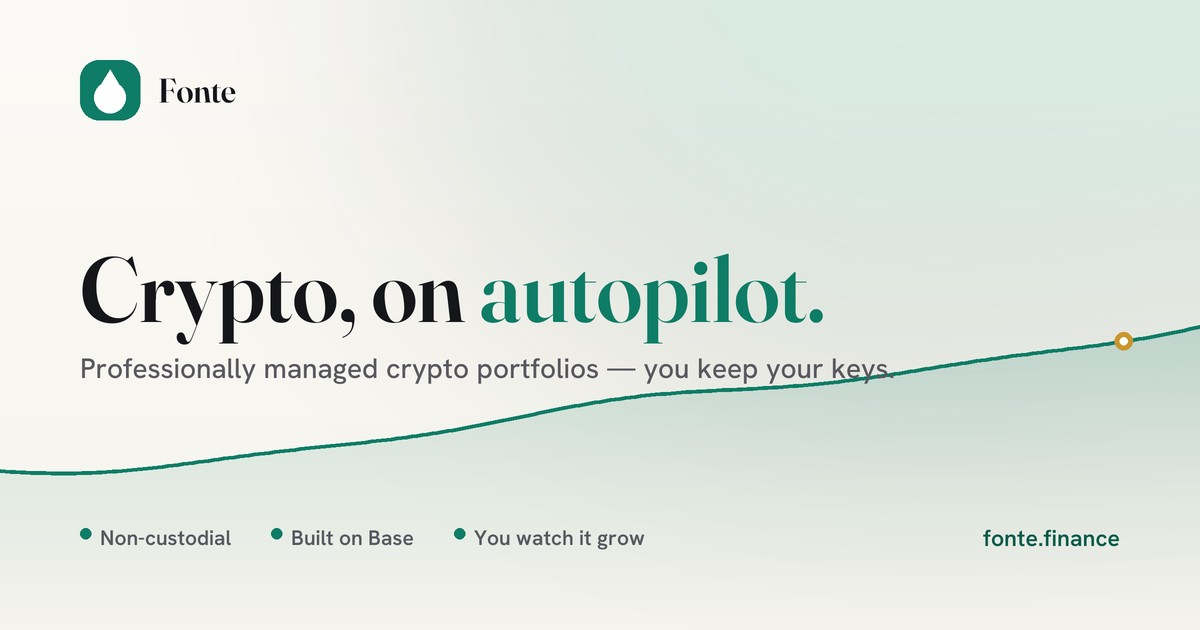
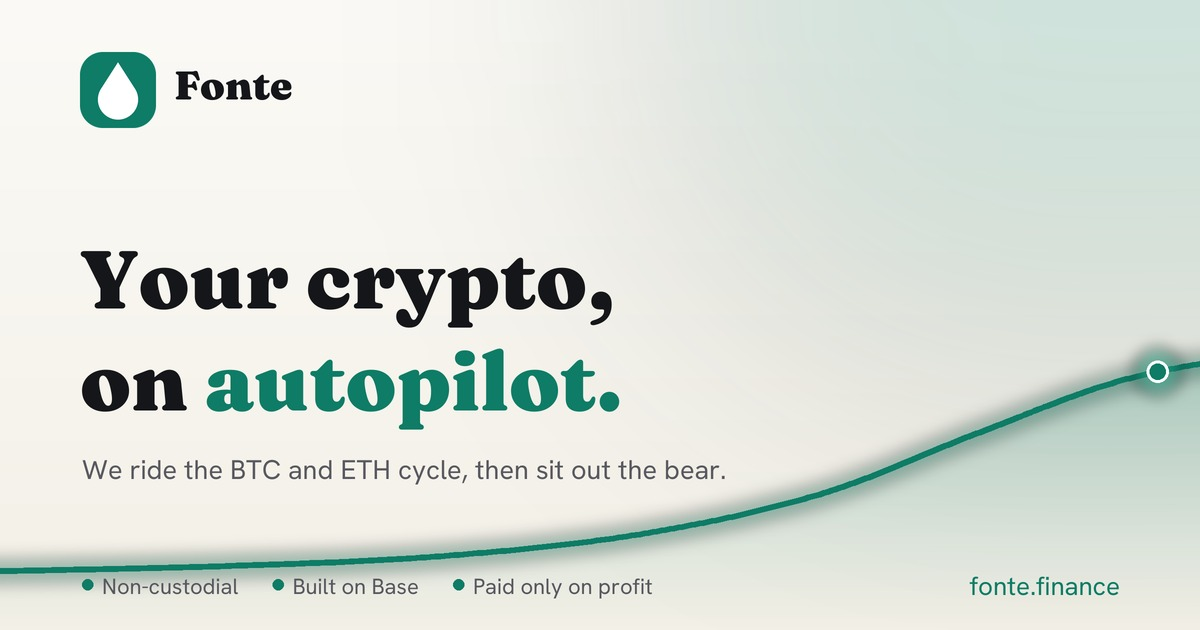
Redesign OG image (glowing equity curve, refined hierarchy); bump cache-buster

diff --git a/about.html b/about.html
@@ -14,7 +14,7 @@
 <meta property="og:title" content="About Fonte" />
 <meta property="og:description" content="Why Fonte exists: managing crypto should feel calm. Professionally managed, non-custodial portfolios for people who would rather live their life than watch charts." />
 <meta property="og:url" content="https://fonte.finance/about" />
-<meta property="og:image" content="https://fonte.finance/assets/og.png?v=20260615" />
+<meta property="og:image" content="https://fonte.finance/assets/og.png?v=20260622" />
 <meta property="og:image:type" content="image/png" />
 <meta property="og:image:width" content="1200" />
 <meta property="og:image:height" content="630" />
@@ -23,7 +23,7 @@
 <meta name="twitter:site" content="@fonte" />
 <meta name="twitter:title" content="About Fonte" />
 <meta name="twitter:description" content="Why Fonte exists: managing crypto should feel calm. Professionally managed, non-custodial portfolios for people who would rather live their life than watch charts." />
-<meta name="twitter:image" content="https://fonte.finance/assets/og.png?v=20260615" />
+<meta name="twitter:image" content="https://fonte.finance/assets/og.png?v=20260622" />
 <meta name="twitter:image:alt" content="Fonte. Crypto, on autopilot. Professionally managed, non-custodial crypto portfolios." />
 <!--/OG-->
 <link rel="stylesheet" href="styles.css" />

diff --git a/app.html b/app.html
@@ -14,7 +14,7 @@
 <meta property="og:title" content="Fonte · Your portfolio" />
 <meta property="og:description" content="Your Fonte dashboard: live positions, NAV, and allocation across a professionally managed, non-custodial crypto portfolio you control." />
 <meta property="og:url" content="https://fonte.finance/app" />
-<meta property="og:image" content="https://fonte.finance/assets/og.png?v=20260615" />
+<meta property="og:image" content="https://fonte.finance/assets/og.png?v=20260622" />
 <meta property="og:image:type" content="image/png" />
 <meta property="og:image:width" content="1200" />
 <meta property="og:image:height" content="630" />
@@ -23,7 +23,7 @@
 <meta name="twitter:site" content="@fonte" />
 <meta name="twitter:title" content="Fonte · Your portfolio" />
 <meta name="twitter:description" content="Your Fonte dashboard: live positions, NAV, and allocation across a professionally managed, non-custodial crypto portfolio you control." />
-<meta name="twitter:image" content="https://fonte.finance/assets/og.png?v=20260615" />
+<meta name="twitter:image" content="https://fonte.finance/assets/og.png?v=20260622" />
 <meta name="twitter:image:alt" content="Fonte. Crypto, on autopilot. Professionally managed, non-custodial crypto portfolios." />
 <!--/OG-->
 <link rel="stylesheet" href="styles.css" />

diff --git a/business.html b/business.html
@@ -14,7 +14,7 @@
 <meta property="og:title" content="Fonte for funds · White-label crypto portfolio management" />
 <meta property="og:description" content="A white-label, non-custodial, automated crypto portfolio platform for family offices and small funds. Your brand. Our engine." />
 <meta property="og:url" content="https://fonte.finance/business" />
-<meta property="og:image" content="https://fonte.finance/assets/og.png?v=20260615" />
+<meta property="og:image" content="https://fonte.finance/assets/og.png?v=20260622" />
 <meta property="og:image:type" content="image/png" />
 <meta property="og:image:width" content="1200" />
 <meta property="og:image:height" content="630" />
@@ -23,7 +23,7 @@
 <meta name="twitter:site" content="@fonte" />
 <meta name="twitter:title" content="Fonte for funds · White-label crypto portfolio management" />
 <meta name="twitter:description" content="A white-label, non-custodial, automated crypto portfolio platform for family offices and small funds. Your brand. Our engine." />
-<meta name="twitter:image" content="https://fonte.finance/assets/og.png?v=20260615" />
+<meta name="twitter:image" content="https://fonte.finance/assets/og.png?v=20260622" />
 <meta name="twitter:image:alt" content="Fonte. Crypto, on autopilot. Professionally managed, non-custodial crypto portfolios." />
 <!--/OG-->
 <link rel="stylesheet" href="styles.css" />

diff --git a/contact.html b/contact.html
@@ -14,7 +14,7 @@
 <meta property="og:title" content="Contact Fonte" />
 <meta property="og:description" content="Get in touch with Fonte. Email us, send a message, or reach out about managed crypto for funds and family offices." />
 <meta property="og:url" content="https://fonte.finance/contact" />
-<meta property="og:image" content="https://fonte.finance/assets/og.png?v=20260615" />
+<meta property="og:image" content="https://fonte.finance/assets/og.png?v=20260622" />
 <meta property="og:image:type" content="image/png" />
 <meta property="og:image:width" content="1200" />
 <meta property="og:image:height" content="630" />
@@ -23,7 +23,7 @@
 <meta name="twitter:site" content="@fonte" />
 <meta name="twitter:title" content="Contact Fonte" />
 <meta name="twitter:description" content="Get in touch with Fonte. Email us, send a message, or reach out about managed crypto for funds and family offices." />
-<meta name="twitter:image" content="https://fonte.finance/assets/og.png?v=20260615" />
+<meta name="twitter:image" content="https://fonte.finance/assets/og.png?v=20260622" />
 <meta name="twitter:image:alt" content="Fonte — Crypto, on autopilot. Professionally managed, non-custodial crypto portfolios." />
 <!--/OG-->
 <link rel="stylesheet" href="styles.css" />

diff --git a/index.html b/index.html
@@ -15,7 +15,7 @@
 <meta property="og:title" content="Fonte · Crypto, on autopilot" />
 <meta property="og:description" content="Professionally managed crypto portfolios. You keep your keys. We do the hard part. You watch it grow." />
 <meta property="og:url" content="https://fonte.finance/" />
-<meta property="og:image" content="https://fonte.finance/assets/og.png?v=20260615" />
+<meta property="og:image" content="https://fonte.finance/assets/og.png?v=20260622" />
 <meta property="og:image:type" content="image/png" />
 <meta property="og:image:width" content="1200" />
 <meta property="og:image:height" content="630" />
@@ -24,7 +24,7 @@
 <meta name="twitter:site" content="@fonte" />
 <meta name="twitter:title" content="Fonte · Crypto, on autopilot" />
 <meta name="twitter:description" content="Professionally managed crypto portfolios. You keep your keys. We do the hard part. You watch it grow." />
-<meta name="twitter:image" content="https://fonte.finance/assets/og.png?v=20260615" />
+<meta name="twitter:image" content="https://fonte.finance/assets/og.png?v=20260622" />
 <meta name="twitter:image:alt" content="Fonte. Crypto, on autopilot. Professionally managed, non-custodial crypto portfolios." />
 <!--/OG-->
 <link rel="stylesheet" href="styles.css" />

diff --git a/privacy.html b/privacy.html
@@ -14,7 +14,7 @@
 <meta property="og:title" content="Privacy Policy · Fonte" />
 <meta property="og:description" content="Fonte Privacy Policy. What little we collect, what we never collect, and how we handle it. We never hold your funds or private keys." />
 <meta property="og:url" content="https://fonte.finance/privacy" />
-<meta property="og:image" content="https://fonte.finance/assets/og.png?v=20260615" />
+<meta property="og:image" content="https://fonte.finance/assets/og.png?v=20260622" />
 <meta property="og:image:type" content="image/png" />
 <meta property="og:image:width" content="1200" />
 <meta property="og:image:height" content="630" />
@@ -23,7 +23,7 @@
 <meta name="twitter:site" content="@fonte" />
 <meta name="twitter:title" content="Privacy Policy · Fonte" />
 <meta name="twitter:description" content="Fonte Privacy Policy. What little we collect, what we never collect, and how we handle it. We never hold your funds or private keys." />
-<meta name="twitter:image" content="https://fonte.finance/assets/og.png?v=20260615" />
+<meta name="twitter:image" content="https://fonte.finance/assets/og.png?v=20260622" />
 <meta name="twitter:image:alt" content="Fonte — Crypto, on autopilot. Professionally managed, non-custodial crypto portfolios." />
 <!--/OG-->
 <link rel="stylesheet" href="styles.css" />

diff --git a/terms.html b/terms.html
@@ -14,7 +14,7 @@
 <meta property="og:title" content="Terms of Service · Fonte" />
 <meta property="og:description" content="Fonte Terms of Service. A plain-language agreement covering our non-custodial managed service, fees, risks, and your responsibilities." />
 <meta property="og:url" content="https://fonte.finance/terms" />
-<meta property="og:image" content="https://fonte.finance/assets/og.png?v=20260615" />
+<meta property="og:image" content="https://fonte.finance/assets/og.png?v=20260622" />
 <meta property="og:image:type" content="image/png" />
 <meta property="og:image:width" content="1200" />
 <meta property="og:image:height" content="630" />
@@ -23,7 +23,7 @@
 <meta name="twitter:site" content="@fonte" />
 <meta name="twitter:title" content="Terms of Service · Fonte" />
 <meta name="twitter:description" content="Fonte Terms of Service. A plain-language agreement covering our non-custodial managed service, fees, risks, and your responsibilities." />
-<meta name="twitter:image" content="https://fonte.finance/assets/og.png?v=20260615" />
+<meta name="twitter:image" content="https://fonte.finance/assets/og.png?v=20260622" />
 <meta name="twitter:image:alt" content="Fonte. Crypto, on autopilot. Professionally managed, non-custodial crypto portfolios." />
 <!--/OG-->
 <link rel="stylesheet" href="styles.css" />